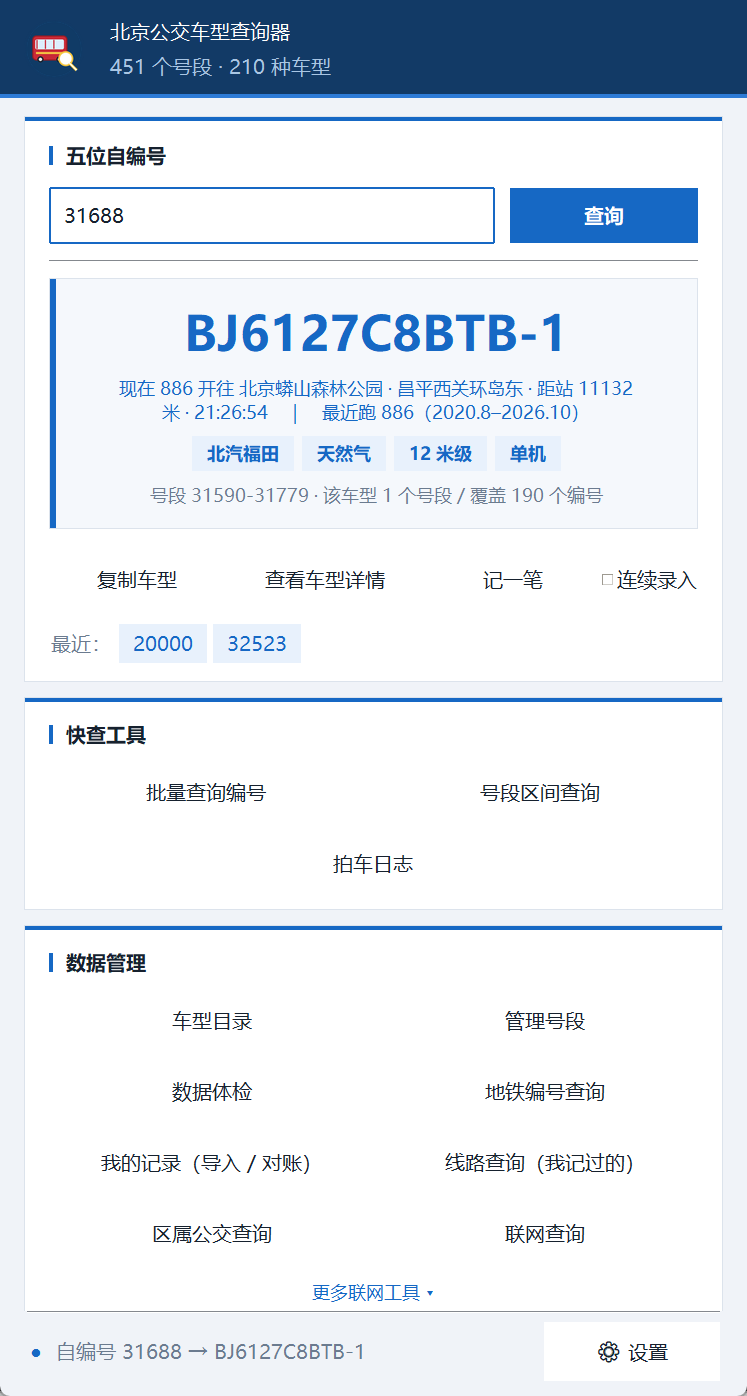
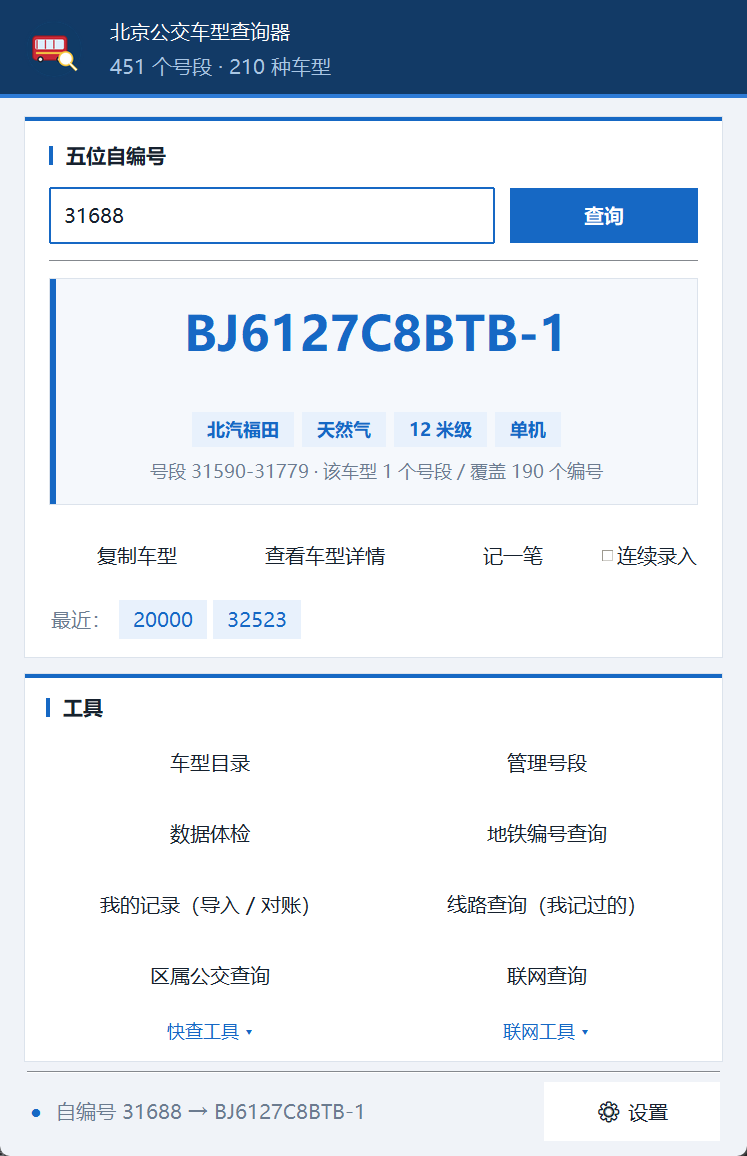
docs: 使用说明按新的单卡「工具」布局更新；截图更新为新主界面

diff --git a/使用说明.md b/使用说明.md
@@ -23,8 +23,9 @@
   （例如「现在 886 开往 北京蟒山森林公园 · 昌平西关环岛东 · 距站 11132 米 · 21:26:54　｜　最近跑 886」）。
   查不到就写一句「联网没查到（连接被拒绝）」。不想让它自动联网，去 **设置 → 联网** 关掉开关。
 
-> 「快查工具」和「数据管理」两张卡片一直都在：数据管理里常用的是六个按钮（车型目录 / 管理号段 / 数据体检 /
-> 地铁编号查询 / 我的记录 / 线路查询 / 区属公交），只有**联网查询、线路资料**收在卡片底部的 **「更多联网工具 ▾」** 里。
+> 主界面只有一张**「工具」**卡：常用的两列排开（车型目录 / 管理号段 / 数据体检 / 地铁编号查询 /
+> 我的记录 / 线路查询 / 区属公交 / 联网查询），少用的收在底部两个菜单里 —— **「快查工具 ▾」**（批量查询编号、
+> 号段区间查询、拍车日志）和 **「联网工具 ▾」**（线路资料、联网查询）。
 
 左下角有一个**状态点**：蓝色是操作提示（8 秒后自动回到「就绪」），绿色是就绪，橙色是警告，红色是出错——出问题时先看它旁边那句话。
 
@@ -34,7 +35,7 @@
 
 ### 2. 一次查一批 / 查一个区间
 
-主窗口「快查工具」→ **批量查询编号**（每行一个，空格逗号顿号都能分隔，重复自动去掉）或 **号段区间查询**（输入 20000 到 20350，自动按车型切成几段）。结果可以 **复制结果**（粘进 Excel 就是一张表）或 **导出 CSV**。
+主窗口「工具」→ **快查工具 ▾** → **批量查询编号**（每行一个，空格逗号顿号都能分隔，重复自动去掉）或 **号段区间查询**（输入 20000 到 20350，自动按车型切成几段）。结果可以 **复制结果**（粘进 Excel 就是一张表）或 **导出 CSV**。
 
 未收录的部分会标红，并且可以**就地补数据**：
 
@@ -43,7 +44,7 @@
 
 ### 3. 补数据 / 维护数据
 
-主窗口「数据管理」→ **数据体检**，它会把「哪些数据还没弄好」列成 9 类待办，每一类都能点开看具体是哪些车型或哪段编号：
+主窗口「工具」→ **数据体检**，它会把「哪些数据还没弄好」列成 9 类待办，每一类都能点开看具体是哪些车型或哪段编号：
 
 | 类别 | 意思是 | 怎么处理 |
 | --- | --- | --- |
@@ -73,7 +74,7 @@
 
 三个开关默认都是关的，按需要打开。热键如果被别的软件占用了，程序会提示一声，其它功能不受影响。
 
-**拍车日志**（主窗口「快查工具」→ 拍车日志）：
+**拍车日志**（主窗口「工具」→ **快查工具 ▾** → 拍车日志）：
 
 ![拍车日志](截图/拍车日志.png)
 
@@ -159,7 +160,7 @@
 
 ### 我的记录（导入线路 + 对账，一个窗口三件事）
 
-如果你在别处记了自己的乘车/拍车记录（Excel），点「数据管理」→ **我的记录（导入 / 对账）**。以前这里是「数据对账」和「线路管理」两个窗口，读的是同一份文件却要给两次，所以合并成一个：
+如果你在别处记了自己的乘车/拍车记录（Excel），点「工具」→ **我的记录（导入 / 对账）**。以前这里是「数据对账」和「线路管理」两个窗口，读的是同一份文件却要给两次，所以合并成一个：
 
 ![我的记录](截图/我的记录.png)
 
@@ -197,7 +198,7 @@
 
 ![区属公交查询](截图/区属公交.png)
 
-点「数据管理」→ **区属公交查询**，输入自编（8 位）按「查询」或回车：
+点「工具」→ **区属公交查询**，输入自编（8 位）按「查询」或回车：
 
 - `59251023` → **北京万佳通客运有限公司 ｜ 2025 年 · 第 1 批 · 当年第 23 辆 ｜ 号段 59251023-59251023 ｜ BJ6859EVCA-N**
 - `59221004` → **该批未编此号**（2022 年那两批整批没编尾号 4，这不是空号，是本来就没这个号）
@@ -331,7 +332,7 @@
 
 ![联网查询](截图/联网查询.png)
 
-点「数据管理」→ **联网查询**，输入**自编**或**线路号**：
+点「工具」→ **联网查询**，输入**自编**或**线路号**：
 
 - 「**查这辆车**」→ 这辆车跑过哪些线路、每条的日期区间、哪些最近还在跑；
 - 「**查这条线**」→ 这条线的两个方向与首末站。
@@ -351,7 +352,7 @@
 
 ![线路资料](截图/线路资料.png)
 
-点「数据管理」→ **线路资料（联网）**，输入线路号（例如 886）：
+点「工具」→ **联网工具 ▾** → **线路资料**，输入线路号（例如 886）：
 
 | 页签 | 内容 |
 | --- | --- |
@@ -402,7 +403,7 @@
 | `Ctrl+F` | 跳到搜索框并清空（车型目录、号段管理、拍车日志、区属公交） |
 | `Ctrl+C` | 不在输入框里时 = 复制当前车型 |
 | `Ctrl+V` | 资料页：把剪贴板里的图片贴进相册 |
-| `Ctrl+Enter` | 快查工具：执行批量查询 |
+| `Ctrl+Enter` | 快查工具窗口：执行批量查询 |
 | `Ctrl` / `Shift` + 点击 | 列表多选（批量设置标签、批量补录、删除记录、批量设置公司） |
 | 双击 | 打开这一行的详情 / 编辑这一行 |
 | **右键任意表格** | **复制选中行 / 只复制某一列（例如只要车型）** |
